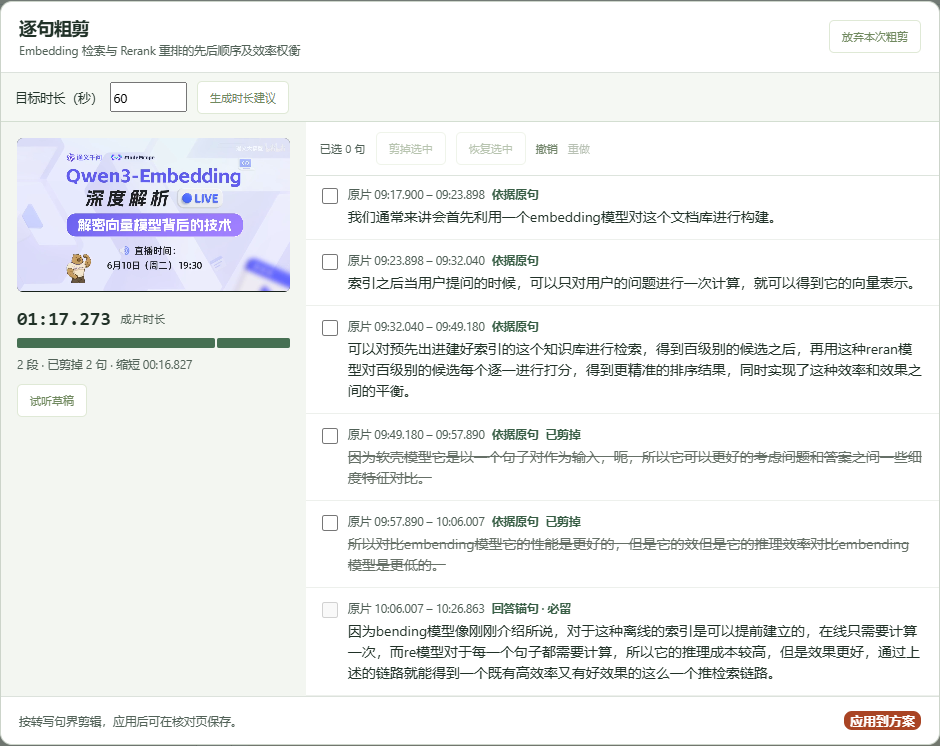
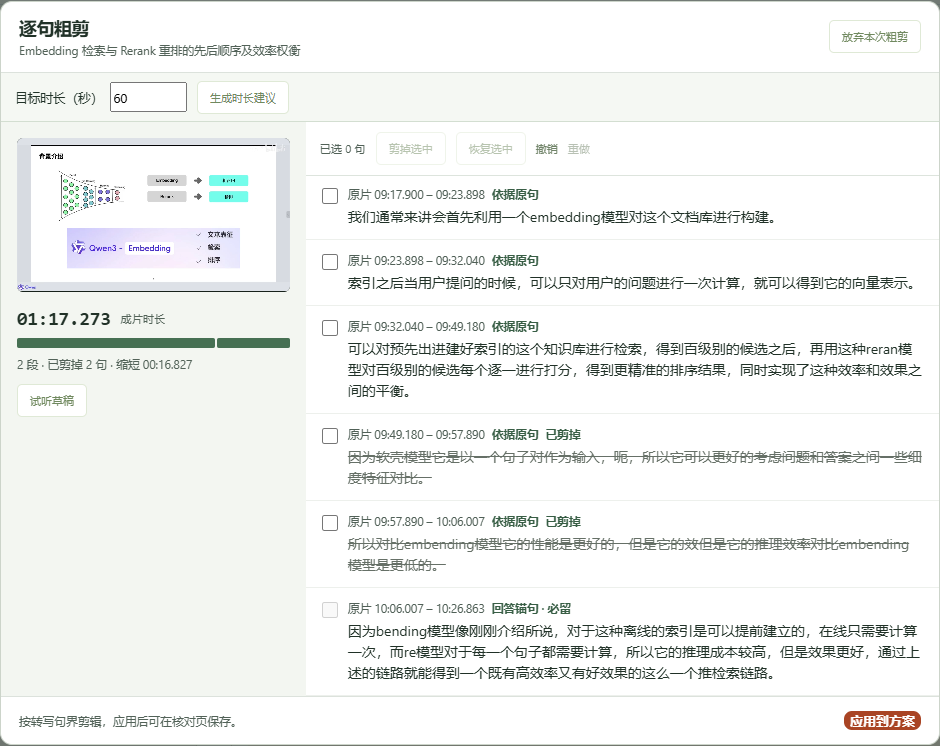
fix: park the rough cut monitor on the first retained sentence

Changed region(s): [[0.0, 0.185, 0.3085, 0.4008]]

diff --git a/frontend/src/PaperCutEditor.vue b/frontend/src/PaperCutEditor.vue
@@ -44,6 +44,23 @@ function step(direction: 'undo' | 'redo') {
   error.value = ''; selected.value.clear()
 }
 function stopPlayback() { preview.cancel(); player.value?.pause() }
+function isCurrentVideo(video: HTMLVideoElement) {
+  if (stopped || video !== player.value || !props.videoUrl) return false
+  try { return video.currentSrc === new URL(props.videoUrl, document.baseURI).href }
+  catch { return false }
+}
+function showFirstFrame() {
+  const video = player.value, firstMs = cut.value.parts[0]?.start_ms
+  if (!video || !isCurrentVideo(video) || !ready.value || !enabled.value || document.hidden || !dialog.value?.open
+    || playback.value || !video.paused || firstMs === undefined || Math.abs(video.currentTime * 1000 - firstMs) < 1) return
+  try { video.currentTime = firstMs / 1000 }
+  catch { error.value = '暂时无法定位预览，仍可按原句剪辑。' }
+}
+function metadata(event: Event) {
+  if (!isCurrentVideo(event.currentTarget as HTMLVideoElement)) return
+  ready.value = true; mediaError.value = false
+  showFirstFrame()
+}
 function audition() {
   if (playback.value) { stopPlayback(); return }
   if (!enabled.value || !ready.value || !player.value || !dialog.value?.open) return
@@ -69,8 +86,10 @@ function syncOpen() {
   if (stopped) return
   if (!props.active || !visible.value) { stopPlayback(); dialog.value?.close(); return }
   if (dialog.value && !dialog.value.open) dialog.value.showModal()
+  showFirstFrame()
 }
 watch(history, stopPlayback, { flush: 'sync' })
+watch(() => cut.value.parts[0]?.start_ms, showFirstFrame, { flush: 'post' })
 watch(() => props.stale, stale => { if (stale) stopPlayback() }, { flush: 'sync' })
 watch([() => props.active, visible], syncOpen, { flush: 'post' })
 onMounted(() => { document.addEventListener('visibilitychange', visibility); void nextTick(syncOpen) })
@@ -85,7 +104,7 @@ onBeforeUnmount(() => { stopped = true; document.removeEventListener('visibility
     <div class="paper-body">
       <section class="paper-monitor" aria-label="草稿预览">
         <video ref="player" :src="videoUrl" preload="metadata" playsinline
-          @loadedmetadata="ready = true; mediaError = false" @error="ready = false; mediaError = true; stopPlayback()"
+          @loadedmetadata="metadata" @error="ready = false; mediaError = true; stopPlayback()"
           @play="guardPlay" @playing="guardPlay" @timeupdate="preview.timeUpdate($event.currentTarget as HTMLVideoElement)"
           @seeking="preview.seeking($event.currentTarget as HTMLVideoElement)" @seeked="preview.seeked($event.currentTarget as HTMLVideoElement)"
           @pause="preview.pause($event.currentTarget as HTMLVideoElement)" @ended="preview.ended($event.currentTarget as HTMLVideoElement)"
